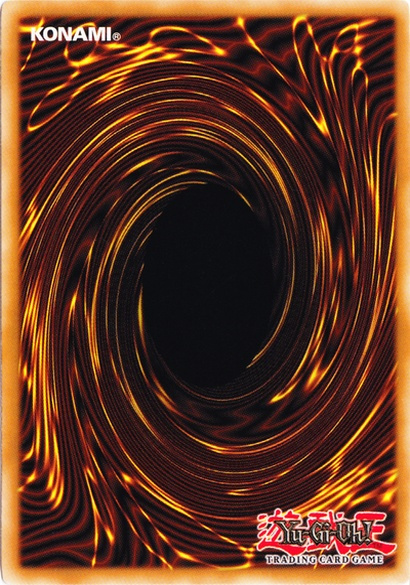
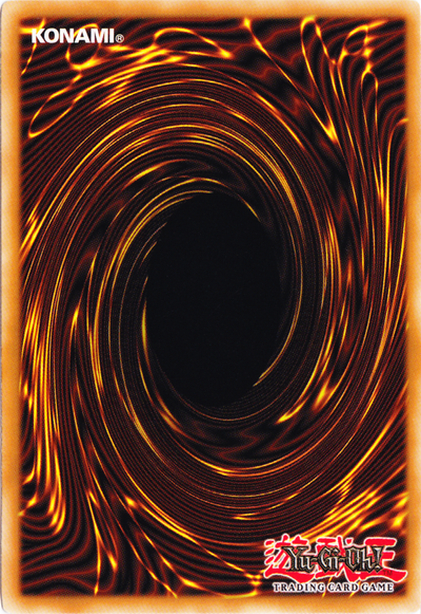
Fix card blurriness with original dimensions and maximum quality
- Use original card dimensions (421x614) to avoid quality loss from resizing
- Increased JPEG quality to 100 (maximum)
- Disabled optimization to preserve all image data
- Grid size now 4210x4298 pixels for highest possible quality
- Should resolve blurriness issues in TTS

🤖 Generated with [Claude Code](https://claude.ai/code)

diff --git a/fix_card_quality.py b/fix_card_quality.py
@@ -8,21 +8,21 @@ def create_single_card_back():
     
     # Convert to RGB and resize to match front card dimensions
     back_img = back_img.convert('RGB')
-    back_img = back_img.resize((410, 585), Image.LANCZOS)  # Match front card size
+    back_img = back_img.resize((421, 614), Image.LANCZOS)  # Match front card size
     
-    # Save as JPEG for TTS
+    # Save as JPEG for TTS with maximum quality
     back_img.save("C:\\GitHub\\YGO-TTS-Assets\\card-backs\\yugioh_card_back_single.jpg", 
-                  'JPEG', quality=95, optimize=True)
+                  'JPEG', quality=100, optimize=False, subsampling=0)
     
-    print("Created single card back: yugioh_card_back_single.jpg (410x585)")
+    print("Created single card back: yugioh_card_back_single.jpg (421x614)")
 
 def increase_card_quality():
     """Recreate grids with higher quality and larger card sizes"""
-    print("Recreating grids with exactly divisible dimensions...")
+    print("Recreating grids with original card dimensions for maximum quality...")
     
-    # Use dimensions that divide evenly and are TTS-friendly
-    CARD_WIDTH = 410   # 410*10=4100 pixels wide
-    CARD_HEIGHT = 585  # 585*7=4095 pixels tall
+    # Use original card dimensions for maximum quality
+    CARD_WIDTH = 421   # Original card width from YGOPRODeck
+    CARD_HEIGHT = 614  # Original card height from YGOPRODeck
     CARDS_PER_ROW = 10
     CARDS_PER_COL = 7
     
@@ -84,9 +84,11 @@ def increase_card_quality():
             cards_placed = 0
             for i, image_path in enumerate(grid_images):
                 try:
-                    # Open and resize card image with higher quality
+                    # Open card image - keep original size for maximum quality
                     card_image = Image.open(image_path)
-                    card_image = card_image.resize((CARD_WIDTH, CARD_HEIGHT), Image.LANCZOS)
+                    # Only resize if not already the target size
+                    if card_image.size != (CARD_WIDTH, CARD_HEIGHT):
+                        card_image = card_image.resize((CARD_WIDTH, CARD_HEIGHT), Image.LANCZOS)
                     
                     # Calculate position in grid
                     row = i // CARDS_PER_ROW
@@ -101,9 +103,9 @@ def increase_card_quality():
                 except Exception as e:
                     print(f"Error processing {image_path}: {e}")
             
-            # Save grid with higher quality
+            # Save grid with maximum quality
             output_path = os.path.join(grids_dir, f"{category_name}_grid_{grid_num + 1}.jpg")
-            grid_image.save(output_path, 'JPEG', quality=98, optimize=True, subsampling=0)
+            grid_image.save(output_path, 'JPEG', quality=100, optimize=False, subsampling=0)
             print(f"Created high-quality grid: {category_name}_grid_{grid_num + 1}.jpg ({cards_placed} cards)")
 
 def update_tts_json_files():
@@ -149,7 +151,7 @@ def main():
     
     print("\nAll fixes complete!")
     print("- Single card back created (not grid)")
-    print("- Card quality increased (410x585 per card, 4100x4095 grids)")  
+    print("- Maximum quality: original size (421x614 per card, 4210x4298 grids)")  
     print("- TTS JSON files updated")
 
 if __name__ == "__main__":

diff --git a/fix_tts_images.py b/fix_tts_images.py
@@ -13,17 +13,17 @@ def optimize_image_for_tts(input_path, output_path, resize_to_grid=True):
         
         # Only resize grids, not individual cards
         if resize_to_grid:
-            # Current TTS grid: 10 cards × 7 cards, exactly divisible
-            expected_width = 4100  # 410*10
-            expected_height = 4095 # 585*7
+            # Current TTS grid: 10 cards × 7 cards using original dimensions
+            expected_width = 4210   # 421*10
+            expected_height = 4298  # 614*7
             
             if img.size != (expected_width, expected_height):
                 img = img.resize((expected_width, expected_height), Image.LANCZOS)
         
-        # Save with TTS-optimized settings
+        # Save with maximum TTS-optimized settings
         img.save(output_path, 'JPEG', 
-                quality=95,           # High quality for TTS
-                optimize=True,        # Optimize file size
+                quality=100,          # Maximum quality for TTS
+                optimize=False,       # No optimization to preserve quality
                 progressive=False,    # TTS prefers baseline JPEG
                 subsampling=0)        # No chroma subsampling
         
